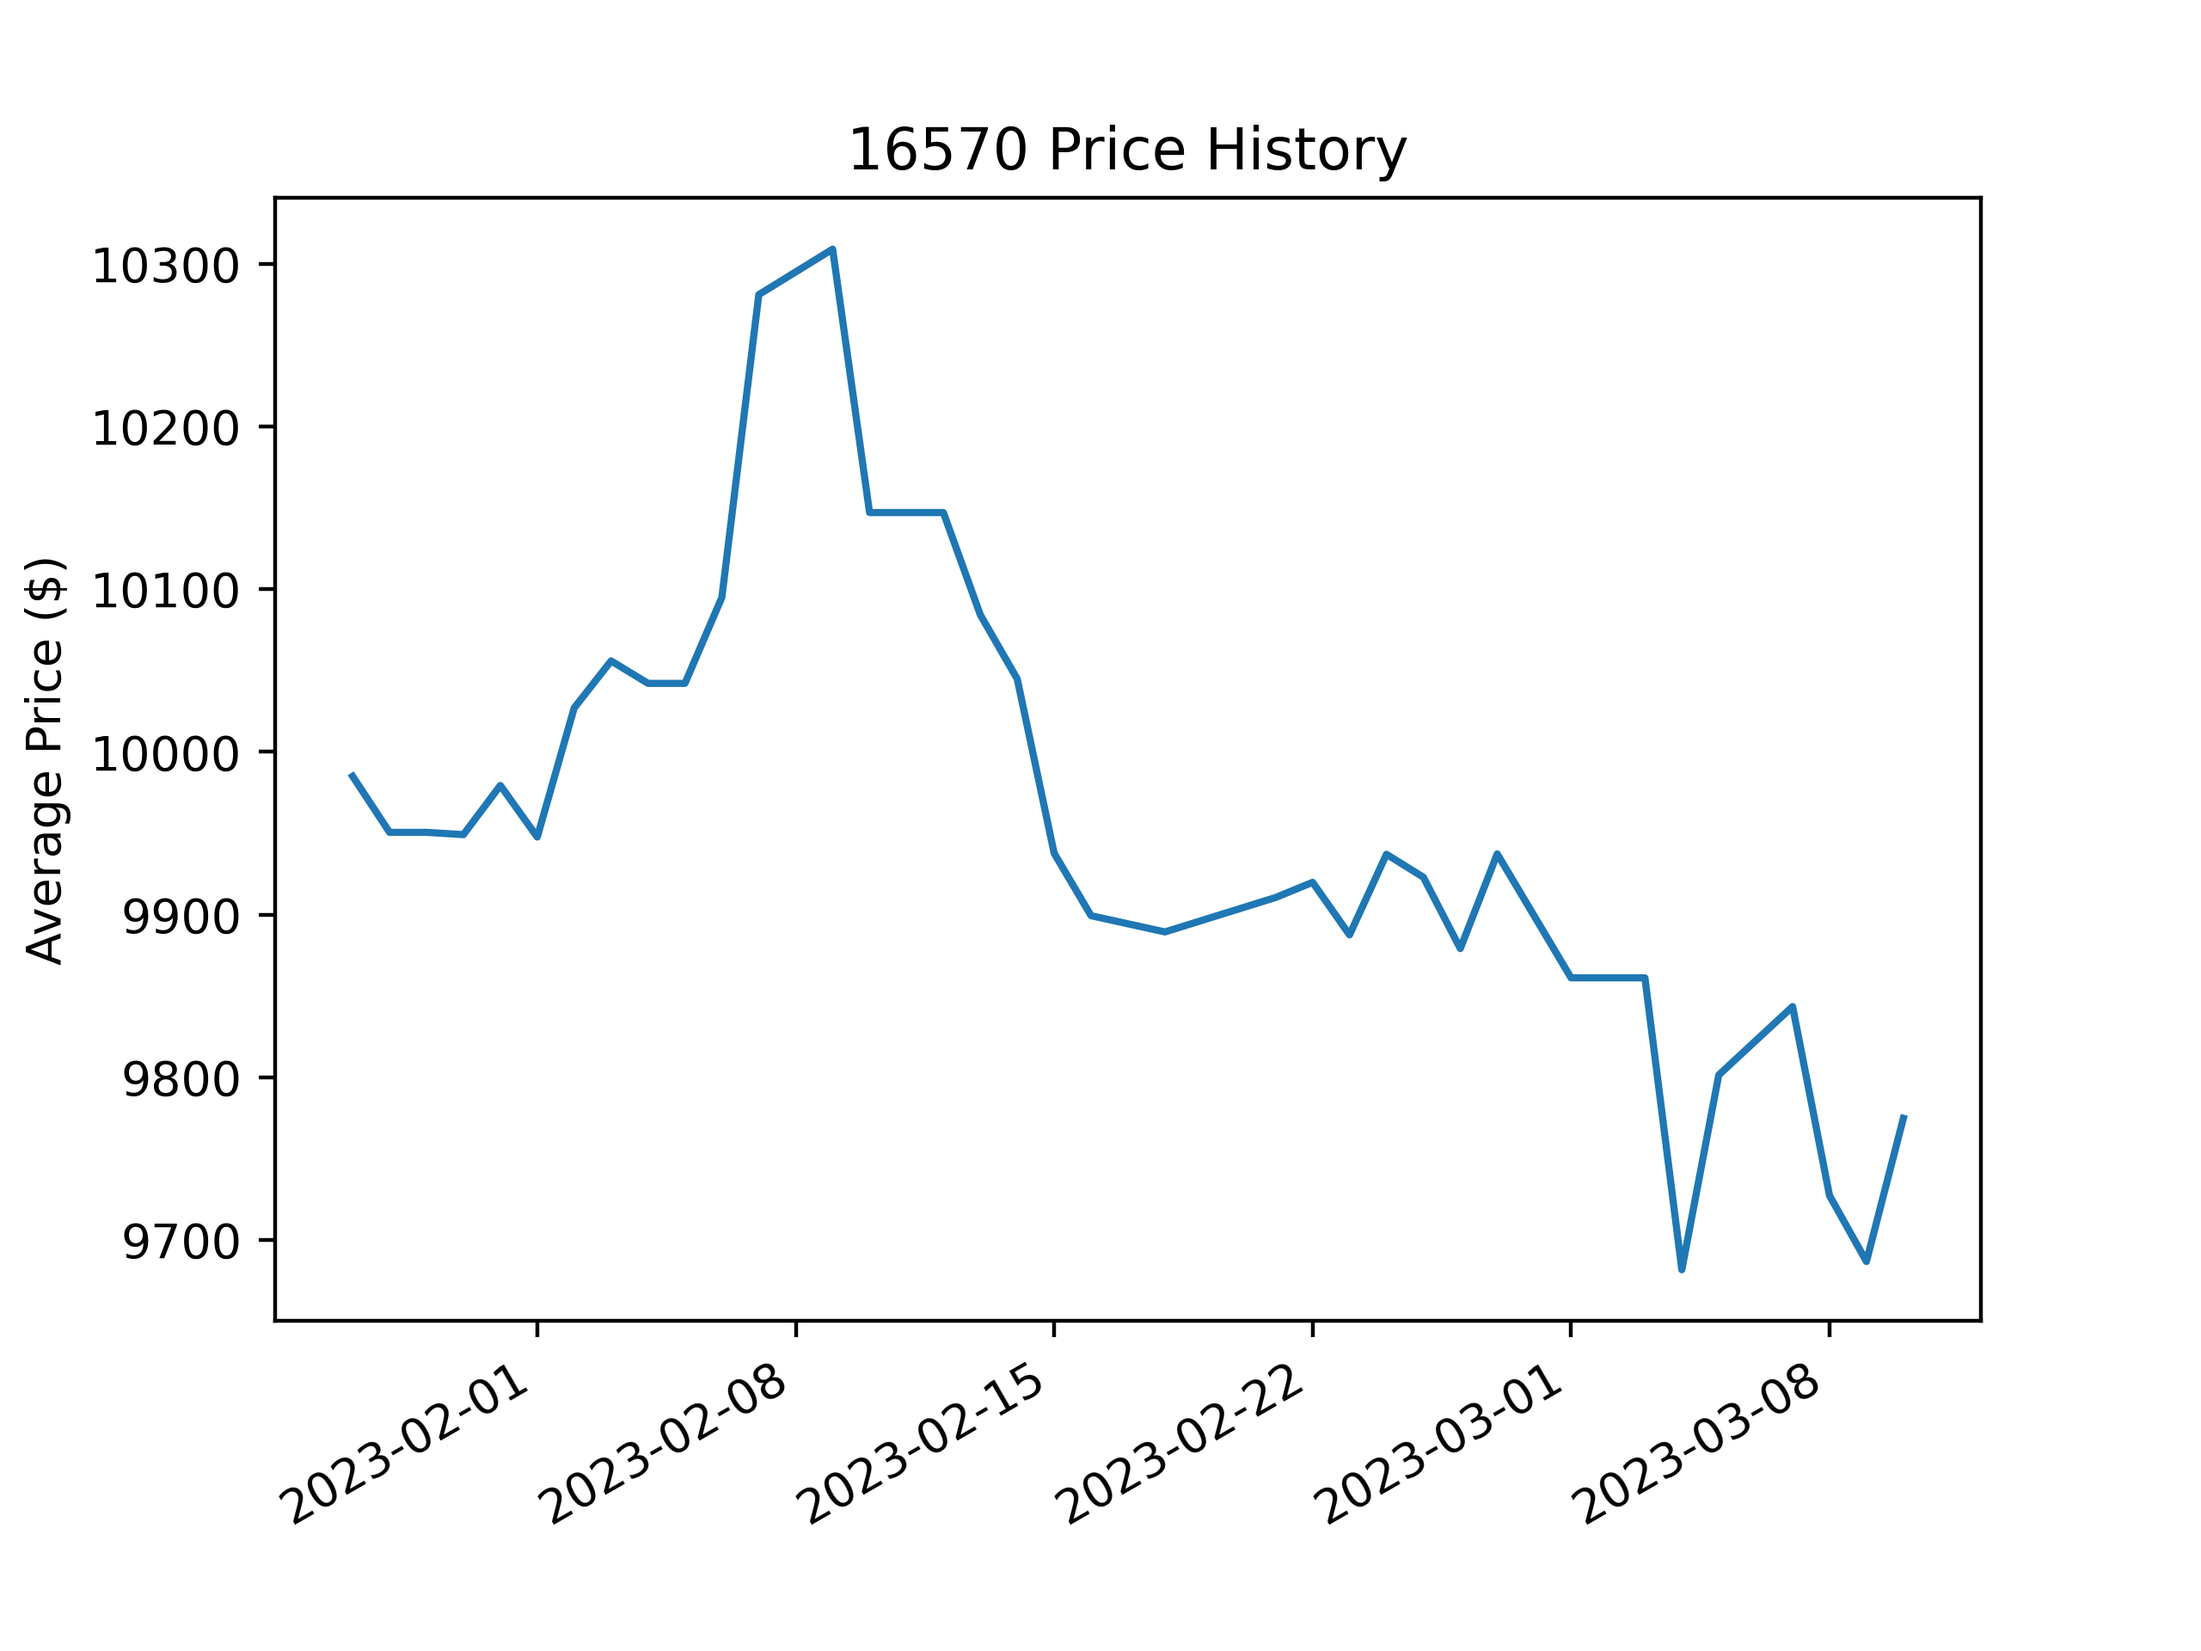
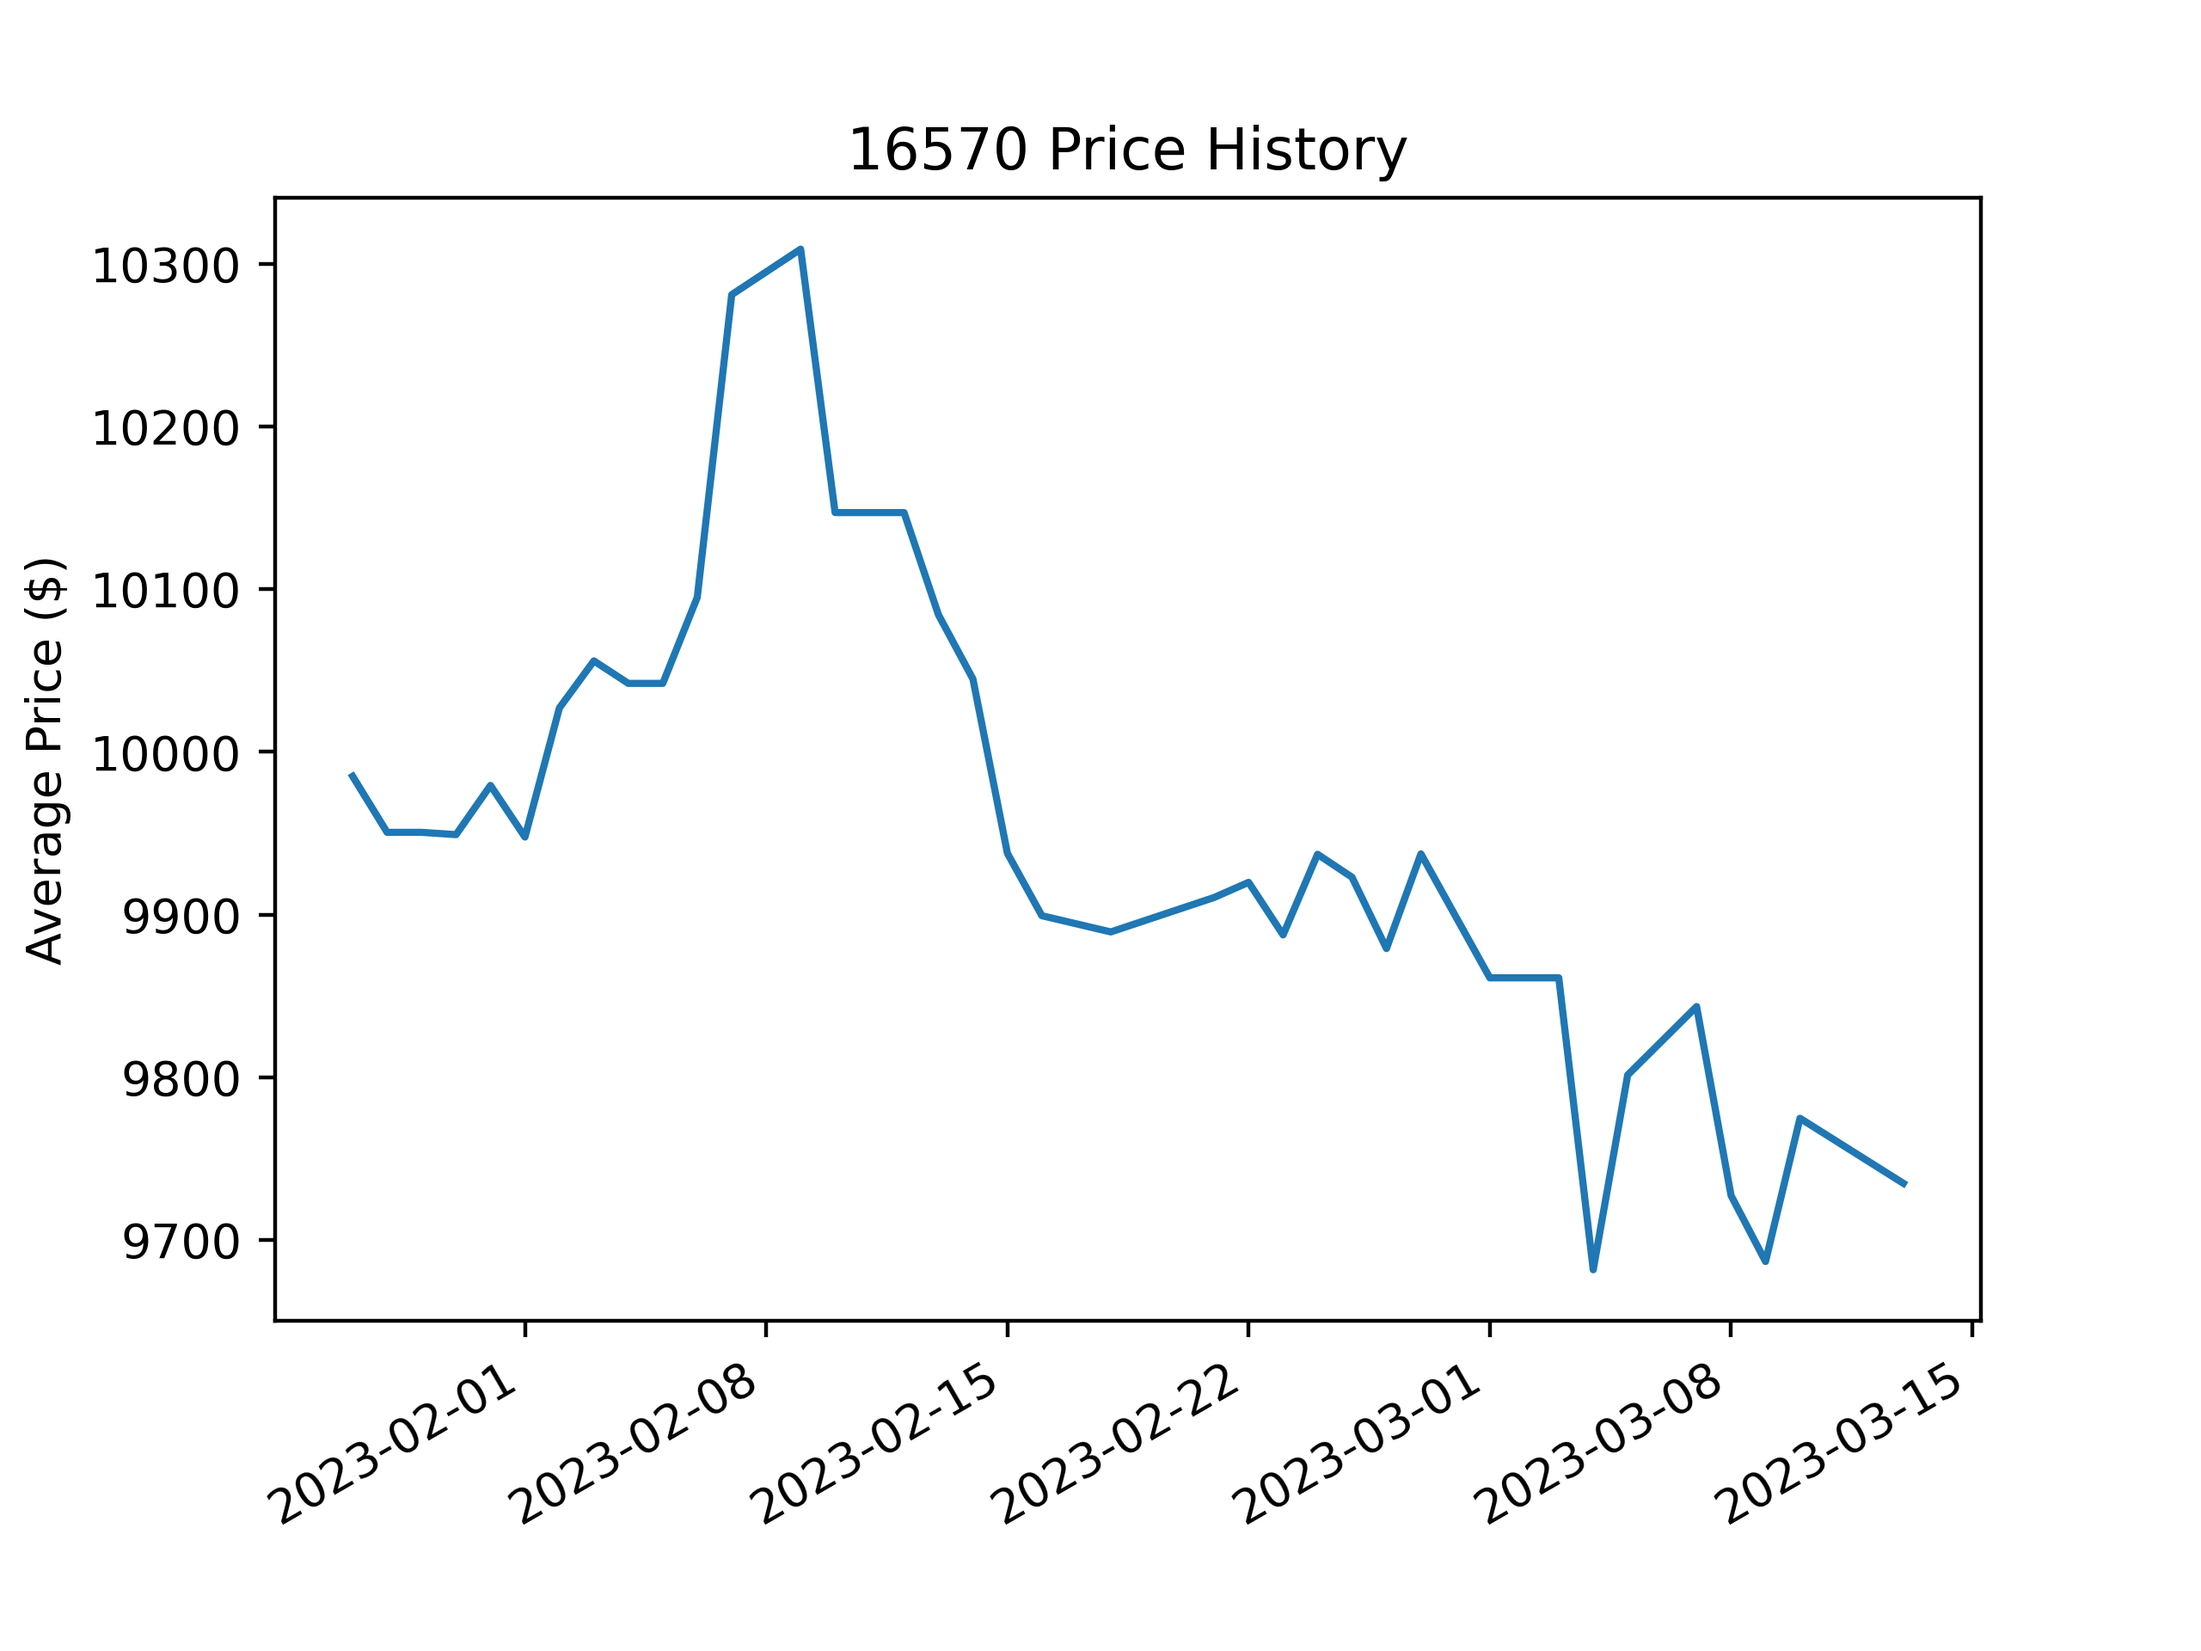
today's prices

diff --git a/all-prices/16570.html b/all-prices/16570.html
@@ -1,1 +1,1 @@
-<!DOCTYPE html><html><body><h1>All listings sorted in ascending order by price</h1><div> <a href="https://www.watchfinder.com/Rolex/Explorer II/16570/1780/item/230008" target="_blank" rel="noopener noreferrer">$7465</a> </div><div> <a href="https://www.crownandcaliber.com/products/rolex-explorer-ii-16570-10-10-rol-s1rugm" target="_blank" rel="noopener noreferrer">$8275</a> </div><div> <a href="https://www.bobswatches.com//rolex-explorer-ii-16570-polar-dial.html" target="_blank" rel="noopener noreferrer">$8695</a> </div><div> <a href="https://www.watchfinder.com/Rolex/Explorer II/16570/1780/item/231123" target="_blank" rel="noopener noreferrer">$8900</a> </div><div> <a href="https://www.watchfinder.com/Rolex/Explorer II/16570/1780/item/230573" target="_blank" rel="noopener noreferrer">$8910</a> </div><div> <a href="https://www.crownandcaliber.com/products/rolex-explorer-ii-16570-10-10-rol-zpudkb" target="_blank" rel="noopener noreferrer">$9000</a> </div><div> <a href="https://www.crownandcaliber.com/products/rolex-explorer-ii-16570-10-10-rol-t6d7yb" target="_blank" rel="noopener noreferrer">$9000</a> </div><div> <a href="https://www.watchfinder.com/Rolex/Explorer II/16570/1780/item/232242" target="_blank" rel="noopener noreferrer">$9050</a> </div><div> <a href="https://www.crownandcaliber.com/products/rolex-explorer-ii-16570-10-10-rol-rcg6ap" target="_blank" rel="noopener noreferrer">$9150</a> </div><div> <a href="https://www.thewatchbox.com/shop/4652947.html" target="_blank" rel="noopener noreferrer">$9450</a> </div><div> <a href="https://aiswatches.com/rolex-polar-explorer-ii-16570-p-serial-white-dial-box-papers-rsc-serviced/" target="_blank" rel="noopener noreferrer">$9775.0</a> </div><div> <a href="https://aiswatches.com/rolex-polar-explorer-ii-16570-y-serial-white-dial-box-paper-1/" target="_blank" rel="noopener noreferrer">$9775.0</a> </div><div> <a href="https://www.watchfinder.com/Rolex/Explorer II/16570/1780/item/231382" target="_blank" rel="noopener noreferrer">$9830</a> </div><div> <a href="https://mandbwatches.com/product/rolex-explorer-ii-40mm-16570-stainless-steel-polar-white-dial-w-papers-unpolished/" target="_blank" rel="noopener noreferrer">$9950.0</a> </div><div> <a href="https://www.bobswatches.com//rolex-explorer-ii-polar-16570.html" target="_blank" rel="noopener noreferrer">$9995</a> </div><div> <a href="https://www.watchfinder.com/Rolex/Explorer II/16570/1780/item/233065" target="_blank" rel="noopener noreferrer">$10175</a> </div><div> <a href="https://www.watchfinder.com/Rolex/Explorer II/16570/1780/item/240103" target="_blank" rel="noopener noreferrer">$10310</a> </div><div> <a href="https://www.watchfinder.com/Rolex/Explorer II/16570/1780/item/239520" target="_blank" rel="noopener noreferrer">$10660</a> </div><div> <a href="https://www.watchfinder.com/Rolex/Explorer II/16570/1780/item/235967" target="_blank" rel="noopener noreferrer">$10855</a> </div><div> <a href="https://aiswatches.com/rolex-polar-explorer-ii-16570-random-serial-white-dial-3186-movement-rsc-b-p/" target="_blank" rel="noopener noreferrer">$10975.0</a> </div><div> <a href="https://aiswatches.com/rolex-polar-explorer-ii-16570-v-serial-white-dial-3186-movement-box-papers/" target="_blank" rel="noopener noreferrer">$10975.0</a> </div><div> <a href="https://aiswatches.com/rolex-polar-explorer-ii-16570-m-serial-white-dial-3186-movement-box-papers/" target="_blank" rel="noopener noreferrer">$10975.0</a> </div><div> <a href="https://davidsw.com/shop/watch/rolex/rolex-16570-explorer-ii-with-white-dial-86/" target="_blank" rel="noopener noreferrer">$12675.0</a> </div></body></html>
+<!DOCTYPE html><html><body><h1>All listings sorted in ascending order by price</h1><div> <a href="https://www.watchfinder.com/Rolex/Explorer II/16570/1780/item/230008" target="_blank" rel="noopener noreferrer">$7465</a> </div><div> <a href="https://www.crownandcaliber.com/products/rolex-explorer-ii-16570-10-10-rol-s1rugm" target="_blank" rel="noopener noreferrer">$8275</a> </div><div> <a href="https://www.bobswatches.com//rolex-explorer-ii-16570-polar-dial.html" target="_blank" rel="noopener noreferrer">$8695</a> </div><div> <a href="https://www.watchfinder.com/Rolex/Explorer II/16570/1780/item/231123" target="_blank" rel="noopener noreferrer">$8900</a> </div><div> <a href="https://www.watchfinder.com/Rolex/Explorer II/16570/1780/item/230573" target="_blank" rel="noopener noreferrer">$8910</a> </div><div> <a href="https://www.thewatchbox.com/shop/4560504.html" target="_blank" rel="noopener noreferrer">$8950</a> </div><div> <a href="https://www.crownandcaliber.com/products/rolex-explorer-ii-16570-10-10-rol-zpudkb" target="_blank" rel="noopener noreferrer">$9000</a> </div><div> <a href="https://www.crownandcaliber.com/products/rolex-explorer-ii-16570-10-10-rol-t6d7yb" target="_blank" rel="noopener noreferrer">$9000</a> </div><div> <a href="https://www.watchfinder.com/Rolex/Explorer II/16570/1780/item/232242" target="_blank" rel="noopener noreferrer">$9050</a> </div><div> <a href="https://www.crownandcaliber.com/products/rolex-explorer-ii-16570-10-10-rol-rcg6ap" target="_blank" rel="noopener noreferrer">$9150</a> </div><div> <a href="https://www.thewatchbox.com/shop/4652947.html" target="_blank" rel="noopener noreferrer">$9450</a> </div><div> <a href="https://www.watchfinder.com/Rolex/Explorer II/16570/1780/item/241538" target="_blank" rel="noopener noreferrer">$9600</a> </div><div> <a href="https://aiswatches.com/rolex-polar-explorer-ii-16570-p-serial-white-dial-box-papers-rsc-serviced/" target="_blank" rel="noopener noreferrer">$9775.0</a> </div><div> <a href="https://aiswatches.com/rolex-polar-explorer-ii-16570-y-serial-white-dial-box-paper-1/" target="_blank" rel="noopener noreferrer">$9775.0</a> </div><div> <a href="https://www.watchfinder.com/Rolex/Explorer II/16570/1780/item/231382" target="_blank" rel="noopener noreferrer">$9830</a> </div><div> <a href="https://mandbwatches.com/product/rolex-explorer-ii-40mm-16570-stainless-steel-polar-white-dial-w-papers-unpolished/" target="_blank" rel="noopener noreferrer">$9950.0</a> </div><div> <a href="https://www.bobswatches.com//rolex-explorer-ii-polar-16570.html" target="_blank" rel="noopener noreferrer">$9995</a> </div><div> <a href="https://www.watchfinder.com/Rolex/Explorer II/16570/1780/item/233065" target="_blank" rel="noopener noreferrer">$10175</a> </div><div> <a href="https://www.watchfinder.com/Rolex/Explorer II/16570/1780/item/240103" target="_blank" rel="noopener noreferrer">$10310</a> </div><div> <a href="https://www.watchfinder.com/Rolex/Explorer II/16570/1780/item/239520" target="_blank" rel="noopener noreferrer">$10660</a> </div><div> <a href="https://www.watchfinder.com/Rolex/Explorer II/16570/1780/item/235967" target="_blank" rel="noopener noreferrer">$10855</a> </div><div> <a href="https://aiswatches.com/rolex-polar-explorer-ii-16570-random-serial-white-dial-3186-movement-rsc-b-p/" target="_blank" rel="noopener noreferrer">$10975.0</a> </div><div> <a href="https://aiswatches.com/rolex-polar-explorer-ii-16570-v-serial-white-dial-3186-movement-box-papers/" target="_blank" rel="noopener noreferrer">$10975.0</a> </div><div> <a href="https://aiswatches.com/rolex-polar-explorer-ii-16570-m-serial-white-dial-3186-movement-box-papers/" target="_blank" rel="noopener noreferrer">$10975.0</a> </div><div> <a href="https://davidsw.com/shop/watch/rolex/rolex-16570-explorer-ii-with-white-dial-86/" target="_blank" rel="noopener noreferrer">$12675.0</a> </div></body></html>
